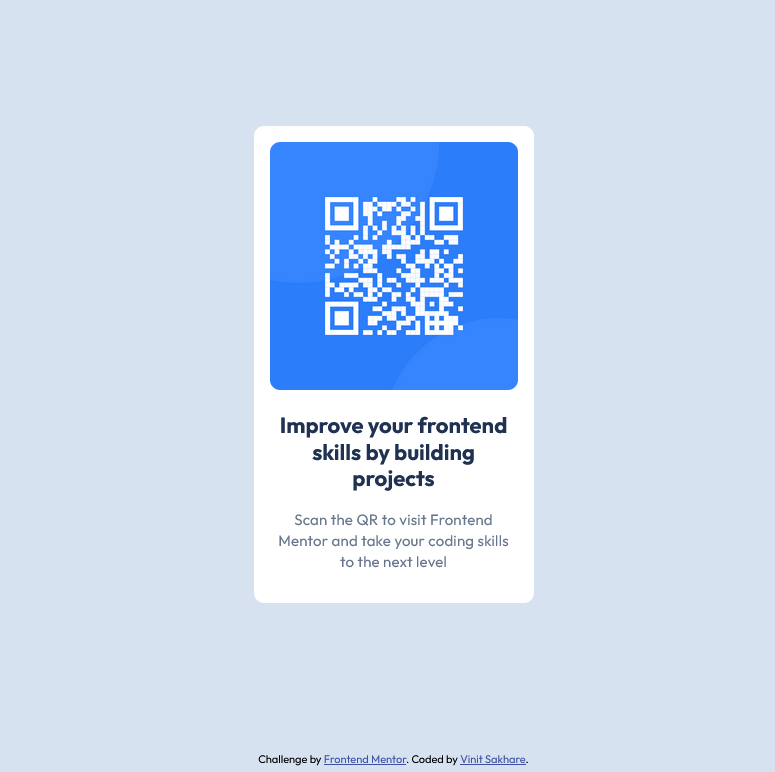
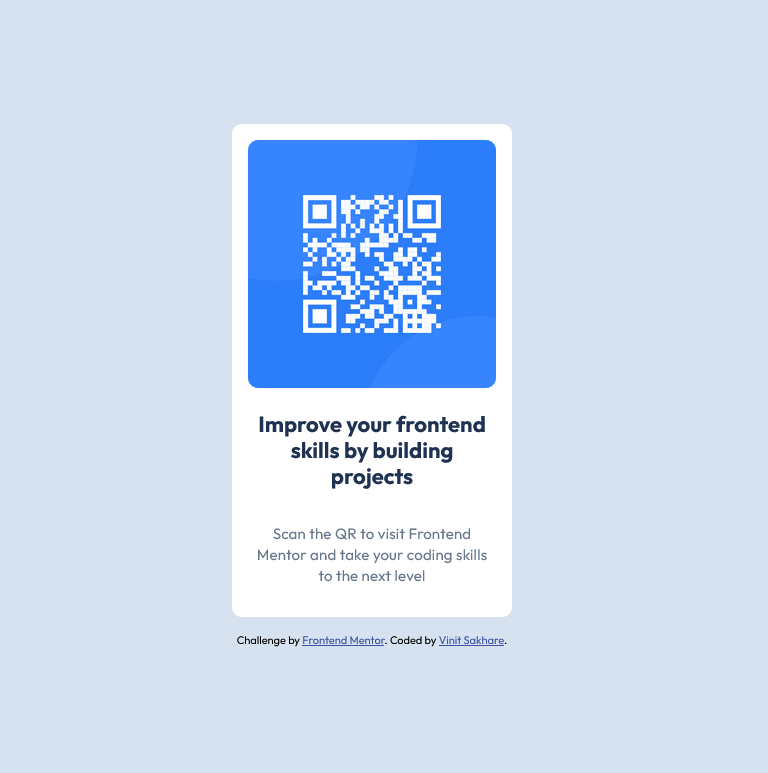
Resolved overflow issues on body and main tags and optimised html

Changed region(s): [[0.2812, 0.1554, 0.6875, 0.8394], [0.3438, 0.9637, 0.6875, 0.9948]]

diff --git a/qr-code-component-main/index.html b/qr-code-component-main/index.html
@@ -16,10 +16,10 @@
 
 
 </head>
-<body>
-  <main class="container">
+<body class="container">
+  <main class="card">
     <h1 class="visually-hidden">QR code component</h1>
-    <section class="card">
+    <!-- <section class="card"> -->
       <!-- <article> -->
         <!-- <h1>Improve your frontend skills by building projects</h1> -->
         <h2>Improve your frontend skills by building projects</h2>
@@ -28,7 +28,7 @@
         </div>
         <p>Scan the QR to visit Frontend Mentor and take your coding skills to the next level</p>
       <!-- </article> -->
-    </section>
+    <!-- </section> -->
   </main>
   
   <footer class="attribution">

diff --git a/qr-code-component-main/styles.css b/qr-code-component-main/styles.css
@@ -19,6 +19,8 @@ body{
     font-weight: 400;
     font-size: 15px;
     
+    /* Prevents overflow  */
+    margin: 0;
 }
 
 /* Visually hide h1 but keep it available for screen readers */
@@ -39,6 +41,8 @@ body{
     display: flex;
     justify-content: center;
     align-items: center;
+    flex-direction: column;
+    gap: 1rem;
     padding: 1rem;
     width: 100%;
     height: 100vh;

diff --git a/qr-code-component-main/README.md b/qr-code-component-main/README.md
@@ -58,6 +58,12 @@ This is a solution to the [QR code component challenge on Frontend Mentor](https
 
 - All page content should be contained by landmarks <br/>
 ```<h1 class="visually-hidden">QR code component</h1>```
+Put heading tags inside semantic tags.
+
+- Overflow issues on <body> and <main> tags. Resolve as follows:
+  1. Set margin:0 on <body>
+  2. Apply flex on <body> directly to avoid setting height of 100vh on inner div
+    (which in turn causes overflow)
 
 
 ### Continued development
